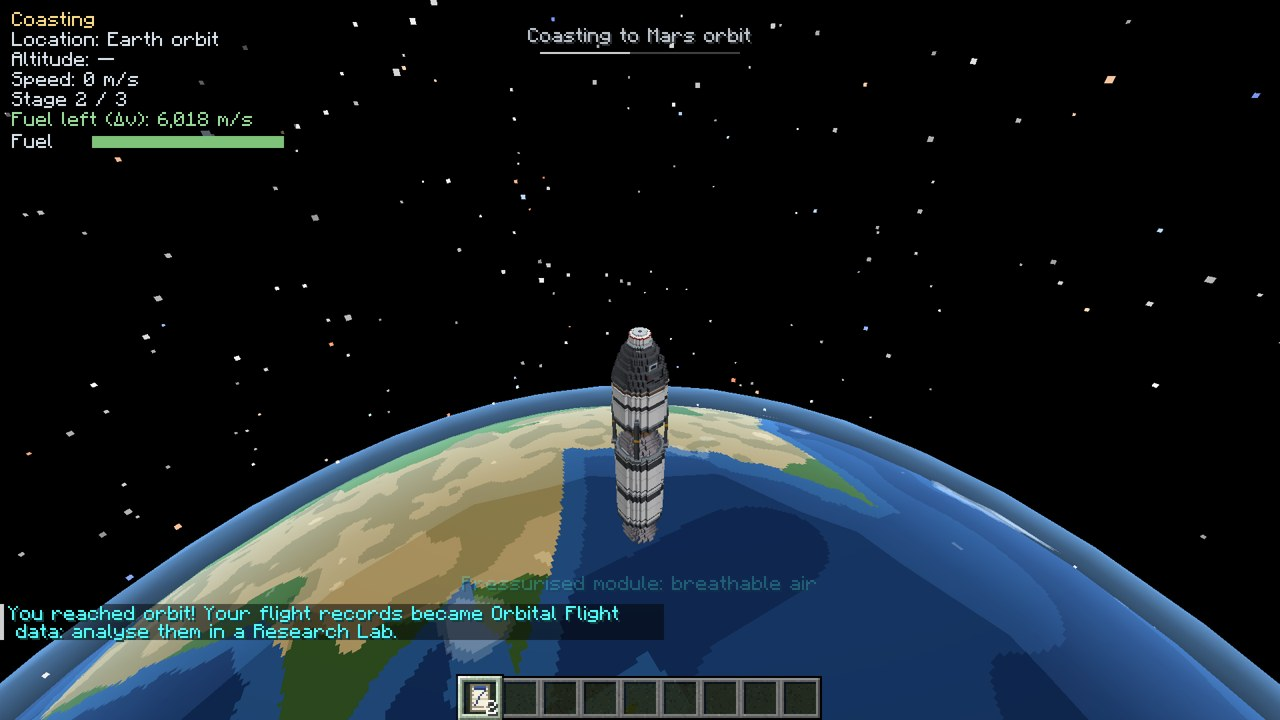
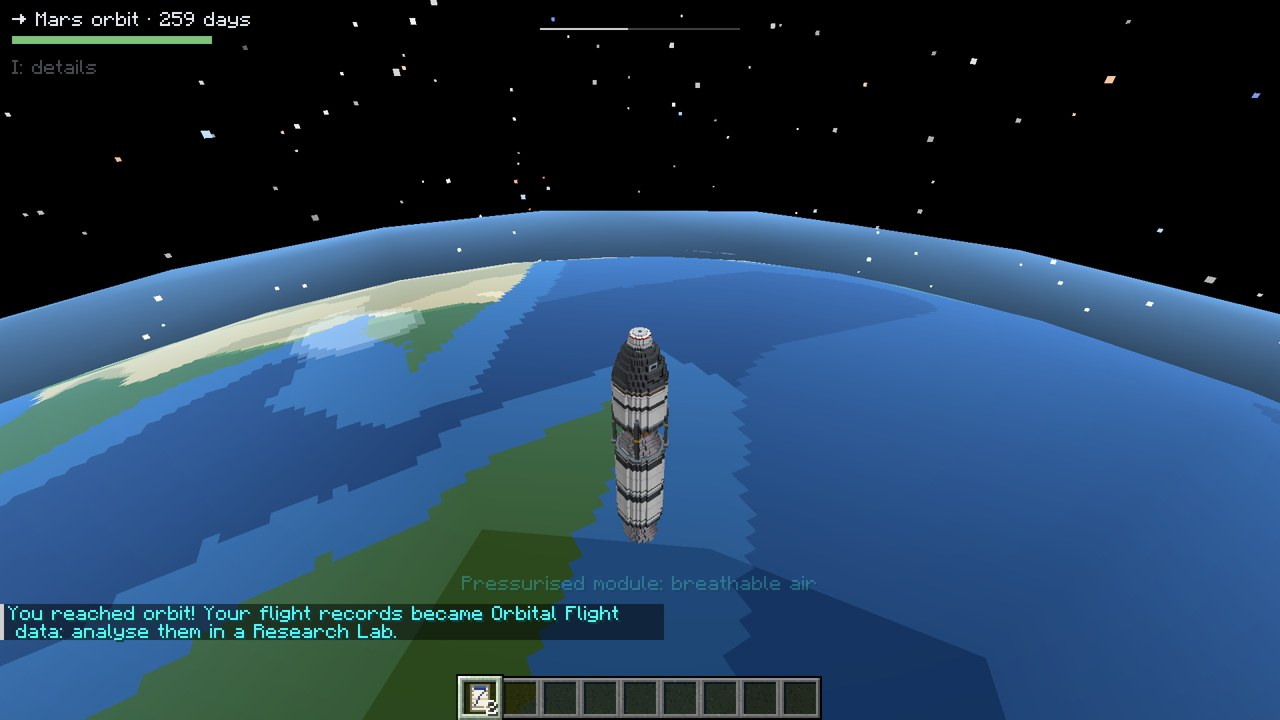
Rocketry: clear ascent sky, Earth in view to orbit, quiet flight HUD
- Ascent sky: deep blue overhead first, then black; the horizon stays a clear,
  saturated light blue (no grey haze); the fog draws back with altitude.
- Vanilla clouds are left out high above them (terrain under them is out of
  render distance there); the Earth's own cloud layer takes over.
- The Earth from orbit is drawn as seen from low orbit (horizon ~22 degrees down),
  so it stays in view with a level camera through the climb and after arrival.
- After the switch to orbit the view fades in only once the crew is seated again.
- Flight HUD: by default only destination and remaining time on one line and the
  fuel bar; the full panel toggles with a key (I). The transfer keeps only a
  thin progress rule at the top.
- Key hints sit above the action bar so they no longer overlap the dismount hint.
- Showcase: transit shots retaken, ascent sky before/after and ascent-to-orbit sheets.

diff --git a/src/main/java/com/pizzaparker07/spacebreaker/client/rocketry/RocketHud.java b/src/main/java/com/pizzaparker07/spacebreaker/client/rocketry/RocketHud.java
@@ -60,15 +60,12 @@ public final class RocketHud {
                 plasma(g, w, h, heat, rocket.tickCount + pt);
             }
             if (s == FlightState.TRANSFER && t > 1) {
-                // the orbit stays in view: one quiet line at the top and a thin progress rule, no blackout
-                Component title = Component.translatable("hud.spacebreaker.coasting", rocket.destination().name());
+                // the orbit stays in view: only a thin progress rule at the top (the panel names the destination)
                 float a = Mth.clamp(t / 20F, 0, 1);
-                int alpha = (int) (a * 220) << 24;
-                g.drawCenteredString(mc.font, title, w / 2, 14, 0xDDE6F0 | alpha);
                 float p = Mth.clamp(t / RocketEntity.TRANSFER_TICKS, 0, 1);
                 int bw = 100;
-                g.fill(w / 2 - bw / 2, 26, w / 2 + bw / 2, 27, (int) (a * 0x40) << 24 | 0xFFFFFF);
-                g.fill(w / 2 - bw / 2, 26, w / 2 - bw / 2 + (int) (bw * p), 27, (int) (a * 0xC0) << 24 | 0xFFFFFF);
+                g.fill(w / 2 - bw / 2, 14, w / 2 + bw / 2, 15, (int) (a * 0x40) << 24 | 0xFFFFFF);
+                g.fill(w / 2 - bw / 2, 14, w / 2 - bw / 2 + (int) (bw * p), 15, (int) (a * 0xC0) << 24 | 0xFFFFFF);
             }
         }
         if (mc.level != null) {
@@ -168,11 +165,75 @@ public final class RocketHud {
         if (s == FlightState.ASCENT && rocket.timer() < 60) {
             g.drawCenteredString(font, Component.translatable("hud.spacebreaker.liftoff"), w / 2, 40, 0xFFFFFF);
         }
-        // panel
+        Location here = rocket.location();
+        if (details) {
+            panel(g, font, mc, rocket, s, here);
+        } else {
+            brief(g, font, rocket, s, here);
+        }
+        // key hints
+        Component hint = switch (s) {
+            case IDLE -> RocketEntity.launchTarget(here) != null
+                    ? Component.translatable("hud.spacebreaker.hint.launch", RocketryClient.LAUNCH.getTranslatedKeyMessage())
+                    : null;
+            case COUNTDOWN -> Component.translatable("hud.spacebreaker.hint.abort", RocketryClient.LAUNCH.getTranslatedKeyMessage());
+            case ORBIT -> Component.translatable("hud.spacebreaker.hint.map", RocketryClient.STAR_MAP.getTranslatedKeyMessage());
+            default -> null;
+        };
+        if (!com.pizzaparker07.spacebreaker.content.rocketry.mission.Coverage.hasSignal(here.body())) {
+            g.drawString(font, Component.translatable("hud.spacebreaker.no_signal"), 6, details ? 82 : 32, 0xB0A070, true);
+        }
+        if (hint != null) {
+            int hy = g.guiHeight() - 86;
+            g.drawCenteredString(font, hint, w / 2, hy, 0xFFFFFF);
+        }
+        if (s == FlightState.IDLE && !Location.EARTH_SURFACE.equals(here)) {
+            g.drawCenteredString(font, Component.translatable("hud.spacebreaker.hint.map", RocketryClient.STAR_MAP.getTranslatedKeyMessage()),
+                    w / 2, g.guiHeight() - 98, 0xC0C8D0);
+        }
+    }
+
+    private static boolean details;
+
+    static void toggleDetails() {
+        details = !details;
+    }
+
+    /** The default: where the rocket is going and how long it takes, and the fuel. */
+    private static void brief(GuiGraphics g, Font font, RocketEntity rocket, FlightState s, Location here) {
+        int x = 6, y = 6;
+        Location to = s == FlightState.ASCENT || s == FlightState.TRANSFER || s == FlightState.BURN ? rocket.destination() : null;
+        Component top;
+        if (to != null) {
+            String time;
+            if (s == FlightState.ASCENT) {
+                // remaining burn, from the share of the climb's Δv already delivered
+                float p = rocket.ascentProgress();
+                float secs = p > 0.03F ? rocket.timer() / 20F * (1 - p) / p : Float.NaN;
+                time = Float.isNaN(secs) ? "…" : String.format(Locale.ROOT, "%d:%02d", (int) secs / 60, (int) secs % 60);
+            } else {
+                double days = com.pizzaparker07.spacebreaker.content.rocketry.nav.Transfers.coastSeconds(here, to) / 86400.0;
+                time = Component.translatable("hud.spacebreaker.days", String.format(Locale.ROOT, days < 10 ? "%.1f" : "%.0f", days)).getString();
+            }
+            top = Component.translatable("hud.spacebreaker.brief", to.name(), time);
+        } else {
+            top = here.name();
+        }
+        int width = Math.max(100, font.width(top));
+        g.fill(x - 3, y - 3, x + width + 3, y + 21, 0x70000000);
+        g.drawString(font, top, x, y, 0xE8EEF4, false);
+        float fuel = (float) rocket.fuelFraction();
+        g.fill(x, y + 12, x + 100, y + 16, 0xFF202326);
+        g.fill(x, y + 12, x + (int) (100 * fuel), y + 16, fuel > 0.2F ? 0xFF7FC27A : 0xFFD9673A);
+        g.drawString(font, Component.translatable("hud.spacebreaker.details_hint", RocketryClient.FLIGHT_DETAILS.getTranslatedKeyMessage()),
+                x, y + 24, 0x60C0C8D0, false);
+    }
+
+    /** The full instrument panel (toggled with the flight details key). */
+    private static void panel(GuiGraphics g, Font font, Minecraft mc, RocketEntity rocket, FlightState s, Location here) {
         int x = 6, y = 6;
         int lines = 7;
         g.fill(x - 3, y - 3, x + 142, y + lines * 10 + 2, 0x90000000);
-        Location here = rocket.location();
         line(g, font, x, y, Component.translatable("hud.spacebreaker.state." + s.name().toLowerCase(Locale.ROOT)), 0xFFE08A);
         line(g, font, x, y + 10, Component.translatable("hud.spacebreaker.location", here.name()), 0xDDE6F0);
         double alt = here.orbit() ? Double.NaN : rocket.getY() - (mc.level != null ? mc.level.getSeaLevel() : 63);
@@ -184,33 +245,12 @@ public final class RocketHud {
         int stage = Math.min(stages, rocket.activeStage() + 1);
         line(g, font, x, y + 40, Component.translatable(rocket.isCapsuleOnly() ? "hud.spacebreaker.capsule" : "hud.spacebreaker.stage", stage, stages), 0xDDE6F0);
         line(g, font, x, y + 50, Component.translatable("hud.spacebreaker.delta_v", Fmt.ms(rocket.deltaV())), 0x9FE0A0);
-        // fuel bar
         float fuel = (float) rocket.fuelFraction();
         int by = y + 61;
         g.drawString(font, Component.translatable("hud.spacebreaker.fuel"), x, by, 0xDDE6F0, false);
         int bx = x + 40;
         g.fill(bx, by + 1, bx + 96, by + 7, 0xFF202326);
         g.fill(bx, by + 1, bx + (int) (96 * fuel), by + 7, fuel > 0.2F ? 0xFF7FC27A : 0xFFD9673A);
-        // key hints
-        Component hint = switch (s) {
-            case IDLE -> RocketEntity.launchTarget(here) != null
-                    ? Component.translatable("hud.spacebreaker.hint.launch", RocketryClient.LAUNCH.getTranslatedKeyMessage())
-                    : null;
-            case COUNTDOWN -> Component.translatable("hud.spacebreaker.hint.abort", RocketryClient.LAUNCH.getTranslatedKeyMessage());
-            case ORBIT -> Component.translatable("hud.spacebreaker.hint.map", RocketryClient.STAR_MAP.getTranslatedKeyMessage());
-            default -> null;
-        };
-        if (!com.pizzaparker07.spacebreaker.content.rocketry.mission.Coverage.hasSignal(here.body())) {
-            g.drawString(font, Component.translatable("hud.spacebreaker.no_signal"), x, y + lines * 10 + 6, 0xB0A070, true);
-        }
-        if (hint != null) {
-            int hy = g.guiHeight() - 72;
-            g.drawCenteredString(font, hint, w / 2, hy, 0xFFFFFF);
-        }
-        if (s == FlightState.IDLE && !Location.EARTH_SURFACE.equals(here)) {
-            g.drawCenteredString(font, Component.translatable("hud.spacebreaker.hint.map", RocketryClient.STAR_MAP.getTranslatedKeyMessage()),
-                    w / 2, g.guiHeight() - 82, 0xC0C8D0);
-        }
     }
 
     private static void line(GuiGraphics g, Font font, int x, int y, Component text, int color) {

diff --git a/src/main/java/com/pizzaparker07/spacebreaker/client/rocketry/RocketClientEvents.java b/src/main/java/com/pizzaparker07/spacebreaker/client/rocketry/RocketClientEvents.java
@@ -29,6 +29,7 @@ import net.neoforged.neoforge.network.PacketDistributor;
 public final class RocketClientEvents {
     private static ResourceKey<Level> lastDimension;
     private static float shake;
+    private static int unseated;
     private static final java.util.Map<Integer, EngineSound> SOUNDS = new java.util.HashMap<>();
     private static final java.util.Map<Integer, EngineSound> ENTRY_SOUNDS = new java.util.HashMap<>();
 
@@ -47,7 +48,12 @@ public final class RocketClientEvents {
             TransitView.update(ridden);
         }
         if (TransitView.active() && TransitView.holding() && !(mc.screen instanceof TransitScreen)) {
-            TransitView.arrived(); // the new dimension is on screen: fade the view out into it
+            // the new dimension is on screen: fade the view out into it once the crew is back in the seat
+            // (the passenger follows the rocket a few ticks later), or after two seconds in any case
+            if (ridden != null || ++unseated > 40) {
+                unseated = 0;
+                TransitView.arrived();
+            }
         } else if (ridden != null && lastDimension != null && lastDimension != level.dimension() && !TransitView.active()) {
             RocketHud.markArrival();
         }
@@ -55,6 +61,11 @@ public final class RocketClientEvents {
         while (RocketryClient.LAUNCH.consumeClick()) {
             if (ridden != null) {
                 PacketDistributor.sendToServer(new RocketActionPayload(ridden.getId(), RocketActionPayload.LAUNCH, 0));
+            }
+        }
+        while (RocketryClient.FLIGHT_DETAILS.consumeClick()) {
+            if (ridden != null) {
+                RocketHud.toggleDetails();
             }
         }
         while (RocketryClient.STAR_MAP.consumeClick()) {
@@ -286,15 +297,40 @@ public final class RocketClientEvents {
         return (float) Mth.clamp((y - 260) / 640.0, 0, 1);
     }
 
+    /** True for the overworld's sky effects while the camera is high enough that its clouds are left out. */
+    public static boolean cloudsBelowView(net.minecraft.client.renderer.DimensionSpecialEffects effects) {
+        Minecraft mc = Minecraft.getInstance();
+        return mc.level != null && mc.level.effects() == effects && spaceFactor() > CLOUDS_GONE;
+    }
+
+    /** Above this (camera ~y 325) the vanilla clouds go; the Earth's own cloud layer is in by then. */
+    private static final float CLOUDS_GONE = 0.1F;
+
+    /** The air thins: the fog draws back with altitude and is gone well before the sky turns black. */
+    @SubscribeEvent
+    static void fogDistance(ViewportEvent.RenderFog event) {
+        float k = spaceFactor();
+        if (k <= 0) {
+            return;
+        }
+        float clear = Mth.clamp(k / 0.3F, 0, 1);
+        event.setFarPlaneDistance(event.getFarPlaneDistance() * (1 + 30 * clear));
+        event.setNearPlaneDistance(event.getNearPlaneDistance() * (1 + 30 * clear));
+        event.setCanceled(true);
+    }
+
     @SubscribeEvent
     static void fog(ViewportEvent.ComputeFogColor event) {
-        float k = spaceFactor();
-        if (k > 0) {
-            float keep = 1 - k;
-            event.setRed(event.getRed() * keep);
-            event.setGreen(event.getGreen() * keep);
-            event.setBlue(event.getBlue() * keep);
+        // the horizon turns a clear, saturated blue as the air thins (never grey), then fades to black at the top
+        float f = spaceFactor();
+        if (f <= 0) {
+            return;
         }
+        float clear = Mth.clamp(f * 3F, 0, 1);
+        float keep = 1 - Mth.clamp((f - 0.45F) / 0.55F, 0, 1);
+        event.setRed(Mth.lerp(clear, event.getRed(), 0.38F) * keep);
+        event.setGreen(Mth.lerp(clear, event.getGreen(), 0.62F) * keep);
+        event.setBlue(Mth.lerp(clear, event.getBlue(), 1.0F) * keep);
     }
 
     @SubscribeEvent
@@ -306,8 +342,13 @@ public final class RocketClientEvents {
         if (k <= 0) {
             return;
         }
-        int alpha = (int) (Mth.clamp(k * 1.1F, 0, 1) * 235);
-        SkyDraw.blackout(event.getModelViewMatrix(), alpha << 24);
+        // deep blue overhead first, then black; the horizon stays a thin band of light blue the longest
+        float top = Mth.clamp(k * 3F, 0, 1);
+        float night = Mth.clamp((k - 0.3F) / 0.6F, 0, 1);
+        int r = (int) Mth.lerp(night, 8, 0), g = (int) Mth.lerp(night, 16, 0), b = (int) Mth.lerp(night, 52, 0);
+        int over = (int) (top * 255) << 24 | r << 16 | g << 8 | b;
+        int horizon = (int) (Mth.clamp((k - 0.35F) / 0.6F, 0, 1) * 255) << 24 | r << 16 | g << 8 | b;
+        SkyDraw.gradient(event.getModelViewMatrix(), over, horizon);
         SkyDraw.stars(event.getModelViewMatrix(), event.getProjectionMatrix(), k);
         // the sun stays bright in space
         Minecraft mc = Minecraft.getInstance();
@@ -315,11 +356,11 @@ public final class RocketClientEvents {
         org.joml.Vector3f sun = new org.joml.Vector3f(-Mth.sin(theta), Mth.cos(theta), 0);
         SkyDraw.billboard(event.getModelViewMatrix(), OrbitSkyEffects.SUN, sun, 100F, 15F, k);
         // the Earth below: its horizon curves away as the rocket climbs, until it looks as it will from orbit
-        // (angular radius from ~88 degrees, a flat horizon, down to the orbit sky's ~50 degrees)
-        float angle = Mth.lerp(k, 88F, 49.5F) * Mth.DEG_TO_RAD;
+        // (angular radius from ~88 degrees, a flat horizon, down to the orbit sky's)
+        float angle = Mth.lerp(k, 88F, OrbitSkyEffects.ORBIT_ANGULAR_RADIUS) * Mth.DEG_TO_RAD;
         float radius = 100F * Mth.sin(angle);
         org.joml.Vector3f center = new org.joml.Vector3f(0, -100F, 0);
-        float planet = Mth.clamp((k - 0.1F) / 0.4F, 0, 1);
+        float planet = Mth.clamp((k - 0.02F) / 0.15F, 0, 1);
         com.mojang.blaze3d.systems.RenderSystem.depthMask(false);
         SkyDraw.planet(event.getModelViewMatrix(), OrbitSkyEffects.EARTH, center, radius, 0F, sun, 0.05F, planet, false);
         SkyDraw.planet(event.getModelViewMatrix(), OrbitSkyEffects.EARTH_CLOUDS, center, radius * 1.006F, 0F, sun, 0.03F, 0.6F * planet, false);

diff --git a/src/main/java/com/pizzaparker07/spacebreaker/client/rocketry/SkyDraw.java b/src/main/java/com/pizzaparker07/spacebreaker/client/rocketry/SkyDraw.java
@@ -105,6 +105,46 @@ final class SkyDraw {
         RenderSystem.enableCull();
     }
 
+    /**
+     * Like {@link #blackout} but shaded from the zenith to the horizon: {@code over} straight up, {@code horizon} at
+     * eye level and below.
+     */
+    static void gradient(Matrix4f modelView, int over, int horizon) {
+        RenderSystem.enableBlend();
+        RenderSystem.defaultBlendFunc();
+        RenderSystem.depthMask(false);
+        RenderSystem.setShader(GameRenderer::getPositionColorShader);
+        BufferBuilder b = Tesselator.getInstance().begin(VertexFormat.Mode.QUADS, DefaultVertexFormat.POSITION_COLOR);
+        float s = 60F;
+        float[][] ring = {{-s, -s}, {s, -s}, {s, s}, {-s, s}};
+        for (int i = 0; i < 4; i++) {
+            float[] p = ring[i], q = ring[(i + 1) % 4];
+            // upper half of each wall: horizon colour at eye level up to the zenith colour
+            vertex(b, modelView, p[0], 0, p[1], horizon);
+            vertex(b, modelView, q[0], 0, q[1], horizon);
+            vertex(b, modelView, q[0], s, q[1], over);
+            vertex(b, modelView, p[0], s, p[1], over);
+            // lower half: horizon colour all the way down
+            vertex(b, modelView, p[0], -s, p[1], horizon);
+            vertex(b, modelView, q[0], -s, q[1], horizon);
+            vertex(b, modelView, q[0], 0, q[1], horizon);
+            vertex(b, modelView, p[0], 0, p[1], horizon);
+        }
+        for (float[] p : ring) {
+            vertex(b, modelView, p[0], s, p[1], over);
+        }
+        for (float[] p : ring) {
+            vertex(b, modelView, p[0], -s, p[1], horizon);
+        }
+        RenderSystem.disableCull();
+        BufferUploader.drawWithShader(b.buildOrThrow());
+        RenderSystem.enableCull();
+    }
+
+    private static void vertex(BufferBuilder b, Matrix4f m, float x, float y, float z, int argb) {
+        b.addVertex(m, x, y, z).setColor(argb >> 16 & 255, argb >> 8 & 255, argb & 255, argb >>> 24);
+    }
+
     /** A textured billboard in the given direction (sun, distant bodies). */
     static void billboard(Matrix4f modelView, ResourceLocation texture, Vector3f dir, float distance, float size, float alpha) {
         RenderSystem.enableBlend();

diff --git a/src/main/java/com/pizzaparker07/spacebreaker/content/rocketry/RocketryLang.java b/src/main/java/com/pizzaparker07/spacebreaker/content/rocketry/RocketryLang.java
@@ -185,6 +185,7 @@ final class RocketryLang {
         l.add("key.categories.spacebreaker.spaceflight", "Spacebreaker: Spaceflight", "Spacebreaker: Uzay Uçuşu");
         l.add("key.spacebreaker.launch", "Launch / abort countdown", "Fırlat / geri sayımı durdur");
         l.add("key.spacebreaker.star_map", "Star map", "Yıldız haritası");
+        l.add("key.spacebreaker.flight_details", "Flight details", "Uçuş ayrıntıları");
         l.add("tooltip.spacebreaker.propellant_cartridge", "Use on a rocket to fill every tank", "Tüm tankları doldurmak için rokete kullan");
         l.add("tooltip.spacebreaker.emergency_beacon", "Away from Earth: calls a capsule that brings you home", "Dünya dışında: seni eve getiren bir kapsül çağırır");
 
@@ -238,6 +239,9 @@ final class RocketryLang {
 
         // HUD
         l.add("hud.spacebreaker.coasting", "Coasting to %s", "%s hedefine süzülüyor");
+        l.add("hud.spacebreaker.brief", "→ %s · %s", "→ %s · %s");
+        l.add("hud.spacebreaker.days", "%s days", "%s gün");
+        l.add("hud.spacebreaker.details_hint", "%s: details", "%s: ayrıntılar");
         l.add("hud.spacebreaker.ignition", "Ignition sequence start", "Ateşleme dizisi başladı");
         l.add("hud.spacebreaker.liftoff", "Liftoff!", "Kalkış!");
         l.add("hud.spacebreaker.state.idle", "Ready", "Hazır");

diff --git a/src/main/java/com/pizzaparker07/spacebreaker/client/rocketry/OrbitSkyEffects.java b/src/main/java/com/pizzaparker07/spacebreaker/client/rocketry/OrbitSkyEffects.java
@@ -159,6 +159,9 @@ public class OrbitSkyEffects extends DimensionSpecialEffects {
         colors.lerp(new org.joml.Vector3f(0.75F, 0.75F, 0.75F), 0.04F);
     }
 
+    /** Angular radius of the body below as seen from orbit (degrees); the ascent sky grows towards it. */
+    static final float ORBIT_ANGULAR_RADIUS = 68F;
+
     @Override
     public boolean renderSky(ClientLevel level, int ticks, float partialTick, Matrix4f modelView, Camera camera, Matrix4f projection,
                              boolean isFoggy, Runnable setupFog) {
@@ -176,9 +179,9 @@ public class OrbitSkyEffects extends DimensionSpecialEffects {
         if (lit > 0.01F) {
             SkyDraw.billboard(modelView, SUN, sun, 100F, sunSize(body), lit);
         }
-        // the body below, seen from a high orbit (angular radius ~50 degrees) so the whole curve reads
+        // the body below, seen from low orbit: the horizon dips ~22 degrees, so the curve fills the lower view
         Vector3f center = new Vector3f(0, -100F, 0);
-        float radius = 76F;
+        float radius = 100F * Mth.sin(ORBIT_ANGULAR_RADIUS * Mth.DEG_TO_RAD);
         if (Location.EARTH.equals(body)) {
             SkyDraw.billboard(modelView, MOON_DISC, new Vector3f(0.7F, 0.45F, -0.55F), 100F, 2.4F, 1F);
             SkyDraw.planet(modelView, EARTH, center, radius, orbit, sun, 0.05F, 1F, false);

diff --git a/src/main/java/com/pizzaparker07/spacebreaker/client/rocketry/mixin/HighAltitudeCloudsMixin.java b/src/main/java/com/pizzaparker07/spacebreaker/client/rocketry/mixin/HighAltitudeCloudsMixin.java
@@ -1,0 +1,23 @@
+package com.pizzaparker07.spacebreaker.client.rocketry.mixin;
+
+import com.pizzaparker07.spacebreaker.client.rocketry.RocketClientEvents;
+import net.minecraft.client.renderer.DimensionSpecialEffects;
+import org.spongepowered.asm.mixin.Mixin;
+import org.spongepowered.asm.mixin.injection.At;
+import org.spongepowered.asm.mixin.injection.Inject;
+import org.spongepowered.asm.mixin.injection.callback.CallbackInfoReturnable;
+
+/**
+ * High above the cloud layer the terrain under it is out of render distance, so the vanilla clouds would hang as
+ * loose squares over the Earth drawn in the sky. Past that height they are left out (NaN means "no clouds" to the
+ * vanilla renderer); the cloud layer of that Earth takes their place.
+ */
+@Mixin(DimensionSpecialEffects.class)
+public abstract class HighAltitudeCloudsMixin {
+    @Inject(method = "getCloudHeight", at = @At("HEAD"), cancellable = true)
+    private void spacebreaker$hideCloudsFromAbove(CallbackInfoReturnable<Float> cir) {
+        if (RocketClientEvents.cloudsBelowView((DimensionSpecialEffects) (Object) this)) {
+            cir.setReturnValue(Float.NaN);
+        }
+    }
+}

diff --git a/src/main/java/com/pizzaparker07/spacebreaker/client/rocketry/RocketryClient.java b/src/main/java/com/pizzaparker07/spacebreaker/client/rocketry/RocketryClient.java
@@ -25,6 +25,9 @@ public final class RocketryClient {
             InputConstants.Type.KEYSYM, GLFW.GLFW_KEY_R, KEY_CATEGORY);
     public static final KeyMapping STAR_MAP = new KeyMapping("key.spacebreaker.star_map", KeyConflictContext.IN_GAME,
             InputConstants.Type.KEYSYM, GLFW.GLFW_KEY_M, KEY_CATEGORY);
+    /** Shows or hides the full flight panel (by default only destination, time and fuel are shown). */
+    public static final KeyMapping FLIGHT_DETAILS = new KeyMapping("key.spacebreaker.flight_details", KeyConflictContext.IN_GAME,
+            InputConstants.Type.KEYSYM, GLFW.GLFW_KEY_I, KEY_CATEGORY);
 
     private RocketryClient() {
     }
@@ -62,6 +65,7 @@ public final class RocketryClient {
     static void keys(RegisterKeyMappingsEvent event) {
         event.register(LAUNCH);
         event.register(STAR_MAP);
+        event.register(FLIGHT_DETAILS);
     }
 
     @SubscribeEvent
